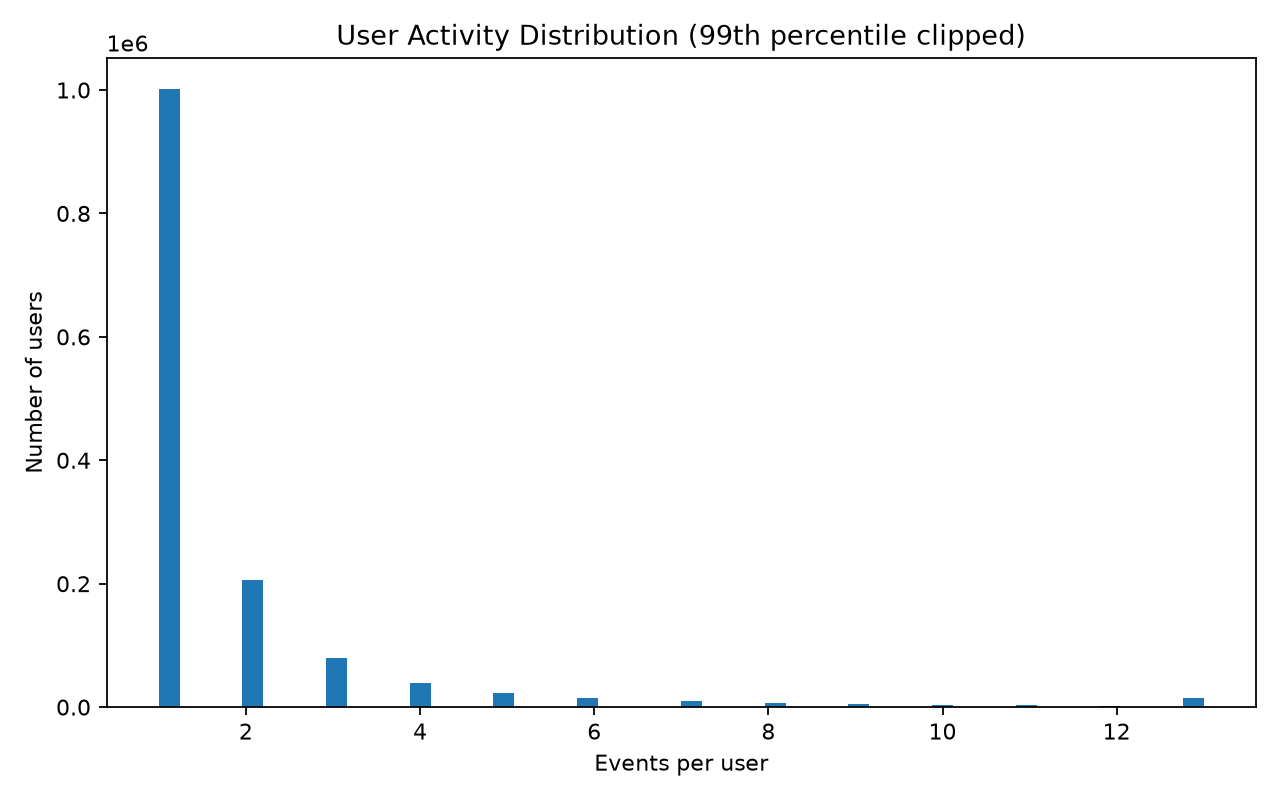
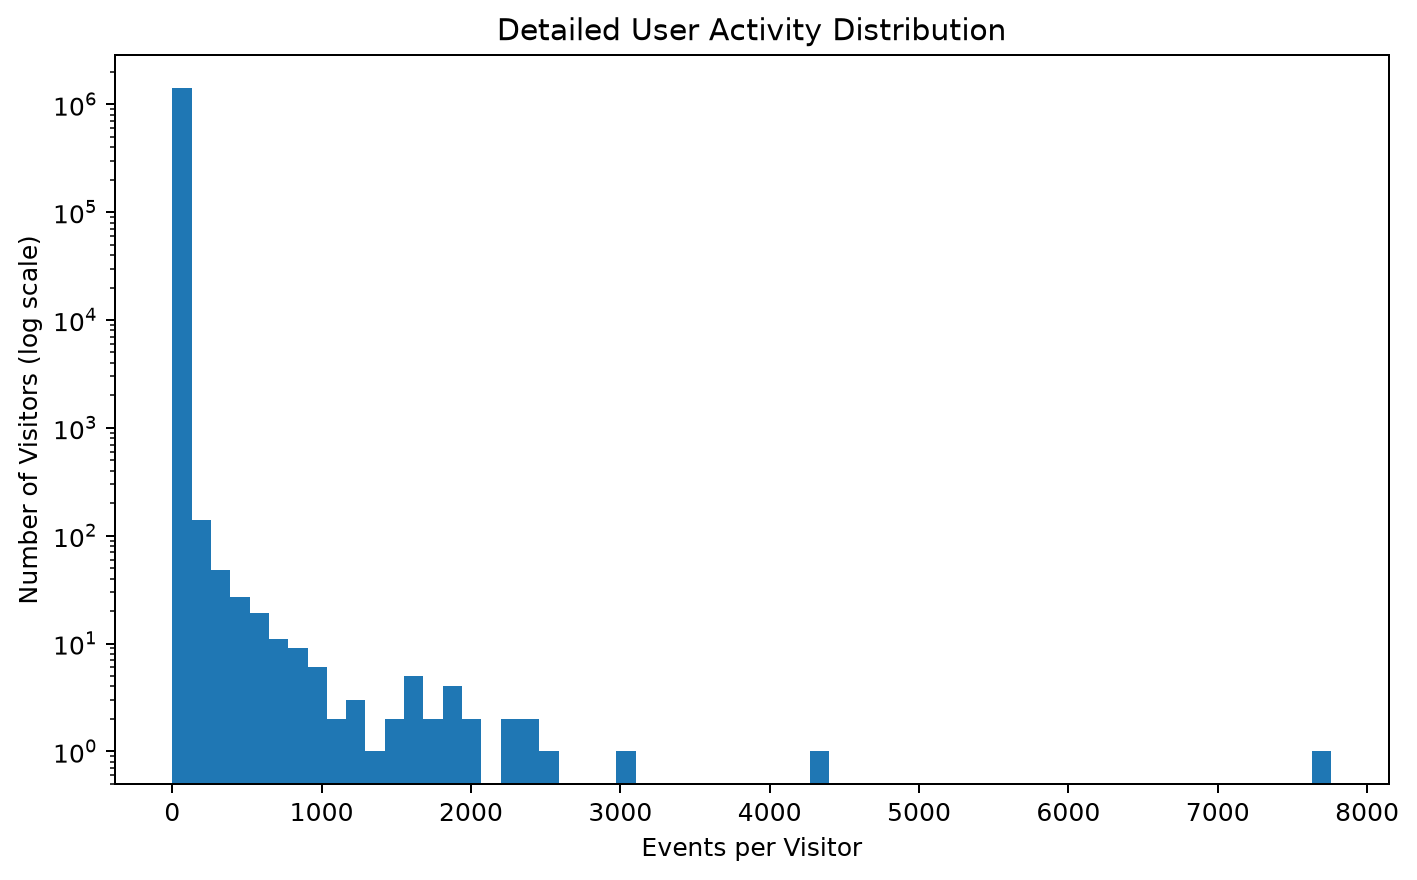
Add Retailrocket EDA visualizations

Changed region(s): [[0.0, 0.0, 1.0, 0.9688]]

diff --git a/scripts/generate_eda_plots.py b/scripts/generate_eda_plots.py
@@ -1,0 +1,97 @@
+import pandas as pd
+import matplotlib
+matplotlib.use("Agg")
+import matplotlib.pyplot as plt
+from pathlib import Path
+
+ROOT = Path(__file__).resolve().parents[1]
+DATA = ROOT / "data/processed/events_prepared.parquet"
+OUT = ROOT / "reports/figures"
+OUT.mkdir(parents=True, exist_ok=True)
+
+print("Reading prepared Retailrocket data...")
+df = pd.read_parquet(DATA, columns=[
+    "visitorid", "itemid", "event", "event_datetime"
+])
+
+def save(fig, name):
+    fig.tight_layout()
+    fig.savefig(OUT / name, dpi=180, bbox_inches="tight")
+    plt.close(fig)
+    print("Created:", name)
+
+# 1. Event distribution
+counts = df["event"].value_counts()
+fig, ax = plt.subplots(figsize=(8, 5))
+counts.plot(kind="bar", ax=ax)
+ax.set_title("Retailrocket Event Distribution")
+ax.set_xlabel("Event Type")
+ax.set_ylabel("Number of Events")
+ax.tick_params(axis="x", rotation=0)
+save(fig, "event_distribution.png")
+
+# 2. Event percentage
+fig, ax = plt.subplots(figsize=(7, 5))
+counts.plot(kind="pie", autopct="%1.1f%%", ax=ax, startangle=90)
+ax.set_title("Share of Event Types")
+ax.set_ylabel("")
+save(fig, "event_percentage.png")
+
+# 3. User activity distribution
+user_counts = df.groupby("visitorid").size()
+fig, ax = plt.subplots(figsize=(8, 5))
+ax.hist(user_counts.clip(upper=user_counts.quantile(.99)), bins=40)
+ax.set_title("User Activity Distribution (99th Percentile Clipped)")
+ax.set_xlabel("Events per Visitor")
+ax.set_ylabel("Number of Visitors")
+save(fig, "user_activity.png")
+
+# 4. Detailed user activity (log scale)
+fig, ax = plt.subplots(figsize=(8, 5))
+ax.hist(user_counts, bins=60, log=True)
+ax.set_title("Detailed User Activity Distribution")
+ax.set_xlabel("Events per Visitor")
+ax.set_ylabel("Number of Visitors (log scale)")
+save(fig, "user_activity_detailed.png")
+
+# 5. Item activity distribution
+item_counts = df.groupby("itemid").size()
+fig, ax = plt.subplots(figsize=(8, 5))
+ax.hist(item_counts, bins=60, log=True)
+ax.set_title("Item Interaction Distribution")
+ax.set_xlabel("Interactions per Item")
+ax.set_ylabel("Number of Items (log scale)")
+save(fig, "item_activity_distribution.png")
+
+# 6. Top 20 popular items
+popular = item_counts.nlargest(20).sort_values()
+fig, ax = plt.subplots(figsize=(10, 7))
+popular.plot(kind="barh", ax=ax)
+ax.set_title("Top 20 Items by Interaction Count")
+ax.set_xlabel("Number of Interactions")
+ax.set_ylabel("Item ID")
+save(fig, "item_popularity_top20.png")
+
+# 7. Hourly activity (timestamps are UTC)
+hourly = df["event_datetime"].dt.hour.value_counts().sort_index()
+fig, ax = plt.subplots(figsize=(9, 5))
+hourly.reindex(range(24), fill_value=0).plot(kind="bar", ax=ax)
+ax.set_title("Hourly User Activity (UTC)")
+ax.set_xlabel("Hour of Day (UTC)")
+ax.set_ylabel("Number of Events")
+save(fig, "hourly_activity.png")
+
+# 8. Weekday activity (Monday = 0)
+weekday_names = ["Monday", "Tuesday", "Wednesday", "Thursday",
+                 "Friday", "Saturday", "Sunday"]
+weekday = df["event_datetime"].dt.dayofweek.value_counts().sort_index()
+fig, ax = plt.subplots(figsize=(9, 5))
+weekday.reindex(range(7), fill_value=0).plot(kind="bar", ax=ax)
+ax.set_title("Activity by Weekday (UTC)")
+ax.set_xlabel("Day of Week")
+ax.set_ylabel("Number of Events")
+ax.set_xticklabels(weekday_names, rotation=30, ha="right")
+save(fig, "weekday_activity.png")
+
+print("\nAll EDA plots generated successfully.")
+print("Output directory:", OUT)
